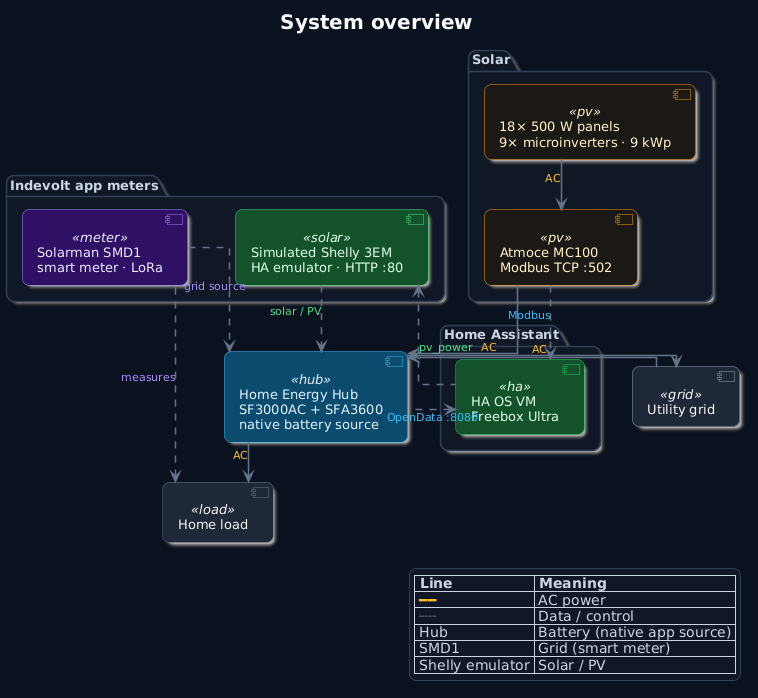
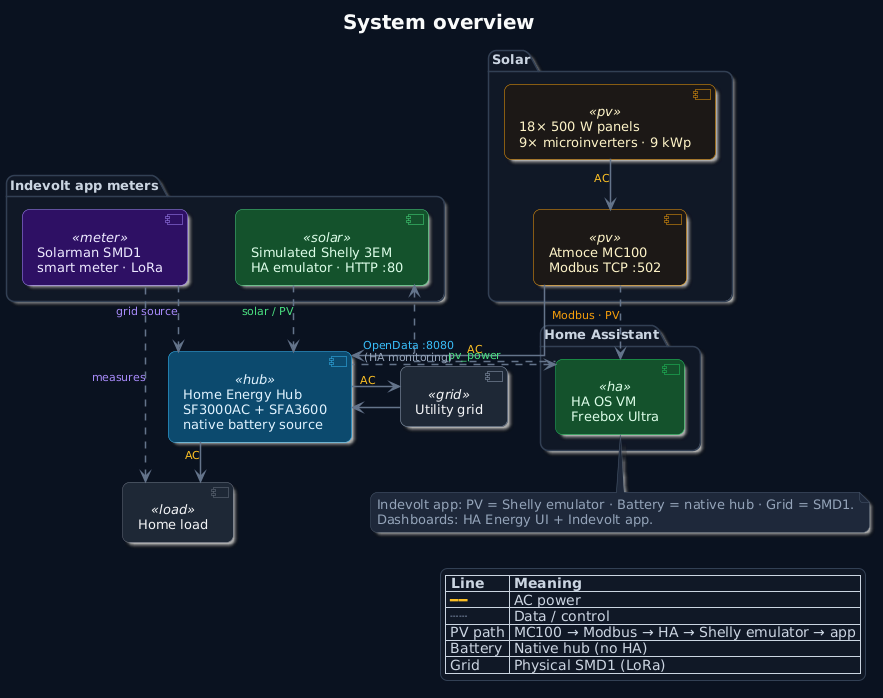
Clarify PV path via HA and three Indevolt app data sources.
Document HA and Indevolt app dashboards; update PlantUML diagrams accordingly.

diff --git a/README.md b/README.md
@@ -8,6 +8,20 @@ This repository is **documentation only** — no integration code. It describes 
 
 Solid arrows = AC power · dashed = data/control. More diagrams: [docs/diagrams.md](docs/diagrams.md).
 
+## Data flow
+
+**Home Assistant** reads **PV** from the Atmoce MC100 over Modbus, then the **Shelly emulator** add-on on HA exports that power to the Indevolt app (HTTP :80).
+
+The **Indevolt app** combines three data sources under **Profile → Data Source**:
+
+| Source | Origin | Path |
+|--------|--------|------|
+| **PV power** | Atmoce via Shelly emulator | MC100 → Modbus → HA → emulator → app |
+| **Battery power** | Native Indevolt hub | SF3000 + SFA3600 (no HA) |
+| **Grid power** | Physical Solarman SMD1 | LoRa clamp meter → hub → app |
+
+**Dashboards:** [Home Assistant Energy](docs/energy-dashboard.md) (Atmoce + optional hub entities) and the **Indevolt app** (optimisation using all three sources above).
+
 ## Hardware
 
 | Component | Role | Network |
@@ -31,7 +45,7 @@ Diagrams are [PlantUML](docs/diagrams.md) — PNG previews in README, SVG for zo
 | Diagram | Description |
 |---------|-------------|
 | [System overview](docs/diagrams.md#system-overview) | Full physical + data layout |
-| [Data paths to HA](docs/diagrams.md#data-paths-to-home-assistant) | Modbus, OpenData, emulator |
+| [Data flow and dashboards](docs/diagrams.md#data-flow-and-dashboards) | PV via HA, three app sources |
 | [Dual metering](docs/diagrams.md#indevolt-dual-metering) | Grid (SMD1) + Solar (Shelly emulator) |
 
 ## Documentation
@@ -49,15 +63,13 @@ Diagrams are [PlantUML](docs/diagrams.md) — PNG previews in README, SVG for zo
 
 ## Indevolt app — data sources
 
-In **Profile → Data Source**, this setup uses three distinct inputs:
+| Data source | Measures | How data arrives |
+|-------------|----------|------------------|
+| **PV power** | Atmoce solar output | HA reads MC100 Modbus → Shelly emulator on HA → app polls emulator |
+| **Battery power** | SOC, charge/discharge | Native Home Energy Hub (SF3000 + SFA3600) — not via HA |
+| **Grid power** | Whole-home import/export | Physical **SMD1** clamp meter (LoRa) → hub sub-device → app |
 
-| App source | Device / role | What it measures |
-|------------|---------------|------------------|
-| **Home Energy Hub** (native) | SF3000AC + SFA3600 | Battery SOC, charge/discharge — built into the hub |
-| **Smart meter** (grid) | Solarman **SMD1** (LoRa) | Whole-home load at the main feed |
-| **Simulated Shelly meter** (solar) | **Shelly 3EM emulator** on HA VM | Atmoce PV power (from `pv_power` via emulator) |
-
-The SMD1 and Shelly emulator are added as sub-devices on the hub, then assigned under **Data Source → Grid** and **Data Source → Solar** respectively.
+Add SMD1 and the Shelly emulator as **sub-devices** on the hub, then assign each under **Profile → Data Source**.
 
 ## Quick reference
 

diff --git a/docs/diagrams.md b/docs/diagrams.md
@@ -14,7 +14,7 @@ Requires [Podman](https://podman.io/) or Docker (`docker.io/plantuml/plantuml`),
 
 ## System overview
 
-Physical layout, data paths, and Indevolt app sources.
+Physical AC layout plus data paths. PV reaches the Indevolt app through HA and the Shelly emulator; battery and grid use native hub and SMD1 respectively.
 
 [![System overview](diagrams/system-overview.png)](diagrams/system-overview.svg)
 
@@ -22,17 +22,23 @@ Source: [`diagrams/system-overview.puml`](diagrams/system-overview.puml)
 
 **Legend:** solid arrows = AC power · dashed arrows = data / control
 
-**App sources:** Hub (battery) · SMD1 (grid) · Shelly emulator (PV)
-
 ---
 
-## Data paths to Home Assistant
+## Data flow and dashboards
 
-[![Data paths](diagrams/data-flow.png)](diagrams/data-flow.svg)
+[![Data flow](diagrams/data-flow.png)](diagrams/data-flow.svg)
 
 Source: [`diagrams/data-flow.puml`](diagrams/data-flow.puml)
 
-Shelly emulator bridges Atmoce PV into Indevolt — the SF3000 does not read Atmoce Modbus directly.
+| Path | Flow |
+|------|------|
+| **PV** | Atmoce MC100 → Modbus → Home Assistant → Shelly emulator → Indevolt app |
+| **Battery** | Home Energy Hub → Indevolt app (native, no HA) |
+| **Grid** | Solarman SMD1 (physical meter) → Indevolt app |
+| **HA dashboard** | HA Energy UI — Atmoce entities (+ optional hub OpenData) |
+| **Indevolt dashboard** | App UI — all three data sources for battery optimisation |
+
+The hub does not read Atmoce Modbus; PV is bridged only through HA and the emulator.
 
 ---
 
@@ -44,4 +50,4 @@ Third-party PV (Atmoce) with separate grid and solar meters. Based on [Indevolt 
 
 Source: [`diagrams/dual-metering.puml`](diagrams/dual-metering.puml)
 
-Without a PV meter, the grid meter alone only sees net import/export — not total solar generation.
+Without a dedicated PV meter (Shelly emulator), the SMD1 grid meter only sees net import/export — not total solar generation.

diff --git a/docs/indevolt-sf3000.md b/docs/indevolt-sf3000.md
@@ -4,18 +4,16 @@ The SF3000AC is the **Home Energy Hub** in the Indevolt app — the native sourc
 
 ## App data sources (this setup)
 
-| Profile → Data Source | What you use | Notes |
-|----------------------|--------------|-------|
-| **Battery / hub** | **Home Energy Hub** (native) | SF3000AC + SFA3600 — no external device needed |
-| **Grid** | **Smart meter** → Solarman **SMD1** | LoRa clamp on main feed — see [smd1-meter.md](smd1-meter.md) |
-| **Solar** | **Simulated Shelly meter** → **Shelly 3EM emulator** | Atmoce `pv_power` via HA — see [pv-meter-emulator.md](pv-meter-emulator.md) |
+| App data source | What you use | Data path |
+|-----------------|--------------|-----------|
+| **PV power** | **Shelly 3EM emulator** on HA | MC100 → Modbus → HA → emulator → app |
+| **Battery power** | **Home Energy Hub** (native) | SF3000AC + SFA3600 — not via HA |
+| **Grid power** | Solarman **SMD1** (physical meter) | LoRa clamp → hub sub-device → app |
 
 ```text
-                    ┌─ SMD1 (grid smart meter, LoRa)
-Home Energy Hub ────┤
-  SF3000 + SFA3600  └─ Shelly emulator (simulated PV meter, HTTP)
-        ▲
-        └── battery data: native (no separate source)
+Atmoce MC100 ──Modbus──► HA ──pv_power──► Shelly emulator ──► Indevolt app (PV)
+Home Energy Hub (native) ──────────────────────────────────► Indevolt app (battery)
+SMD1 (LoRa) ─────────────────────────────────────────────────► Indevolt app (grid)
 ```
 
 Configure under **Profile → Data Source**. Link SMD1 and the Shelly emulator as sub-devices on the hub first (**Device → SF3000 → + Add Sub-Device**).

diff --git a/docs/home-assistant.md b/docs/home-assistant.md
@@ -1,8 +1,8 @@
 # Home Assistant
 
-Home Assistant runs as a **virtual machine on Freebox Ultra**. It collects data from Atmoce and Indevolt, hosts the Shelly PV emulator add-on, and drives the Energy dashboard.
+Home Assistant runs as a **virtual machine on Freebox Ultra**. It reads **PV from the Atmoce MC100** over Modbus, hosts the **Shelly emulator** that exports that PV to the Indevolt app, and drives the **HA Energy dashboard**. Battery and grid data in the Indevolt app come from the native hub and physical SMD1 — not through HA.
 
-[![Data paths](diagrams/data-flow.png)](diagrams/data-flow.svg)
+[![Data flow](diagrams/data-flow.png)](diagrams/data-flow.svg)
 
 ## Freebox Ultra VM
 
@@ -45,9 +45,9 @@ Entity IDs depend on the integration you install. Find them under **Settings →
 
 ## Shelly emulator add-on
 
-Feeds Atmoce PV into the Indevolt app — see [pv-meter-emulator.md](pv-meter-emulator.md).
+This is the **PV data source** for the Indevolt app: HA pulls PV from the MC100 via Modbus, then the emulator republishes it as a fake Shelly meter — see [pv-meter-emulator.md](pv-meter-emulator.md).
 
-The emulator reads HA entity states via the Supervisor API (`homeassistant_api: true`). Set `mdns_host` to the **HA VM’s LAN address**. Map `single_phase_power` to your Atmoce PV power entity.
+The emulator reads HA entity states via the Supervisor API (`homeassistant_api: true`). Set `mdns_host` to the **HA VM’s LAN address**. Map `single_phase_power` to your Atmoce `pv_power` entity.
 
 ## Template sensors (optional)
 

diff --git a/docs/setup.md b/docs/setup.md
@@ -66,16 +66,17 @@ See [indevolt-sf3000.md](indevolt-sf3000.md).
 
 ## Phase 4 — Indevolt app data sources
 
-The **Home Energy Hub** (SF3000AC + SFA3600) provides battery data natively. For third-party PV (Atmoce), add two external meters:
+Three inputs in **Profile → Data Source**:
 
 | App data source | Device | Guide |
 |-----------------|--------|-------|
-| **Battery** | Home Energy Hub (native) | [indevolt-sf3000.md](indevolt-sf3000.md) |
-| **Grid** | Solarman SMD1 smart meter (LoRa) | [smd1-meter.md](smd1-meter.md) |
-| **Solar** | Simulated Shelly 3EM emulator on HA VM | [pv-meter-emulator.md](pv-meter-emulator.md) |
+| **PV power** | Shelly emulator on HA (from MC100 Modbus) | [pv-meter-emulator.md](pv-meter-emulator.md) |
+| **Battery power** | Home Energy Hub (native) | [indevolt-sf3000.md](indevolt-sf3000.md) |
+| **Grid power** | Solarman SMD1 (physical meter, LoRa) | [smd1-meter.md](smd1-meter.md) |
 
-1. Add and link SMD1 + Shelly emulator as **sub-devices** on the hub.
-2. **Profile → Data Source** → assign **Grid** = SMD1, **Solar** = Shelly emulator.
+1. Confirm HA reads Atmoce PV via Modbus and the Shelly emulator maps `pv_power`.
+2. Add SMD1 + Shelly emulator as **sub-devices** on the hub.
+3. **Profile → Data Source** → assign PV = Shelly emulator, Grid = SMD1; battery stays native.
 
 [![Dual metering](diagrams/dual-metering.png)](diagrams/dual-metering.svg)
 

diff --git a/docs/energy-dashboard.md b/docs/energy-dashboard.md
@@ -60,11 +60,13 @@ On **HA 2026.9+**, verify during daylight in **Developer tools → States**:
 3. Power sensors: `device_class: power`, `state_class: measurement`, unit W
 4. Statistics: **Developer tools → Statistics** — no gaps for new entities
 
-## Indevolt app vs HA Energy
+## Two dashboards
 
-| System | Purpose |
-|--------|---------|
-| **HA Energy** | Atmoce Modbus data (PV, grid) |
-| **Indevolt app** | Hub (battery) + SMD1 (grid) + Shelly emulator (PV) for optimisation |
+| Dashboard | Data it uses | Role |
+|-----------|--------------|------|
+| **HA Energy** | Atmoce MC100 via Modbus (PV, grid); optional SF3000 via Indevolt integration | Home monitoring, history, automations |
+| **Indevolt app** | **PV** — Shelly emulator on HA (fed from Atmoce Modbus) · **Battery** — native hub · **Grid** — physical SMD1 | Battery optimisation and device control |
 
-They use different data paths — see [data-flow diagram](diagrams/data-flow.svg).
+HA gathers PV from the MC100, exports it through the Shelly emulator, and the Indevolt app reads that as its PV data source. Battery and grid in the app do not pass through HA.
+
+See [data-flow diagram](diagrams/data-flow.svg).

diff --git a/docs/pv-meter-emulator.md b/docs/pv-meter-emulator.md
@@ -1,8 +1,8 @@
 # PV meter — Shelly Pro 3EM emulator
 
-When solar comes from a third-party inverter (Atmoce), the Indevolt app needs a **Solar** data source. This setup uses a **simulated Shelly Pro 3EM** on the Home Assistant VM: it repackages Atmoce `pv_power` as a fake Shelly smart meter for the app.
+The Indevolt app **PV power** data source comes from this emulator. Home Assistant reads Atmoce PV from the MC100 over Modbus, then the **simulated Shelly Pro 3EM** add-on republishes `pv_power` as a fake Shelly meter (HTTP :80) for the app.
 
-Battery and grid use separate native sources (Home Energy Hub + SMD1) — see [indevolt-sf3000.md](indevolt-sf3000.md).
+**Battery power** is native on the hub; **grid power** comes from the physical SMD1 — see [indevolt-sf3000.md](indevolt-sf3000.md).
 
 [![Dual metering](diagrams/dual-metering.png)](diagrams/dual-metering.svg)
 

diff --git a/docs/diagrams/README.md b/docs/diagrams/README.md
@@ -3,7 +3,7 @@
 | PNG (README preview) | SVG | PlantUML source | Description |
 |----------------------|-----|-----------------|-------------|
 | [system-overview.png](system-overview.png) | [system-overview.svg](system-overview.svg) | [system-overview.puml](system-overview.puml) | Physical layout + data paths |
-| [data-flow.png](data-flow.png) | [data-flow.svg](data-flow.svg) | [data-flow.puml](data-flow.puml) | Paths into Home Assistant |
+| [data-flow.png](data-flow.png) | [data-flow.svg](data-flow.svg) | [data-flow.puml](data-flow.puml) | PV via HA, three app sources, dashboards |
 | [dual-metering.png](dual-metering.png) | [dual-metering.svg](dual-metering.svg) | [dual-metering.puml](dual-metering.puml) | Grid (SMD1) + Solar (Shelly) |
 
 Shared styling: [`_theme.puml`](_theme.puml)
